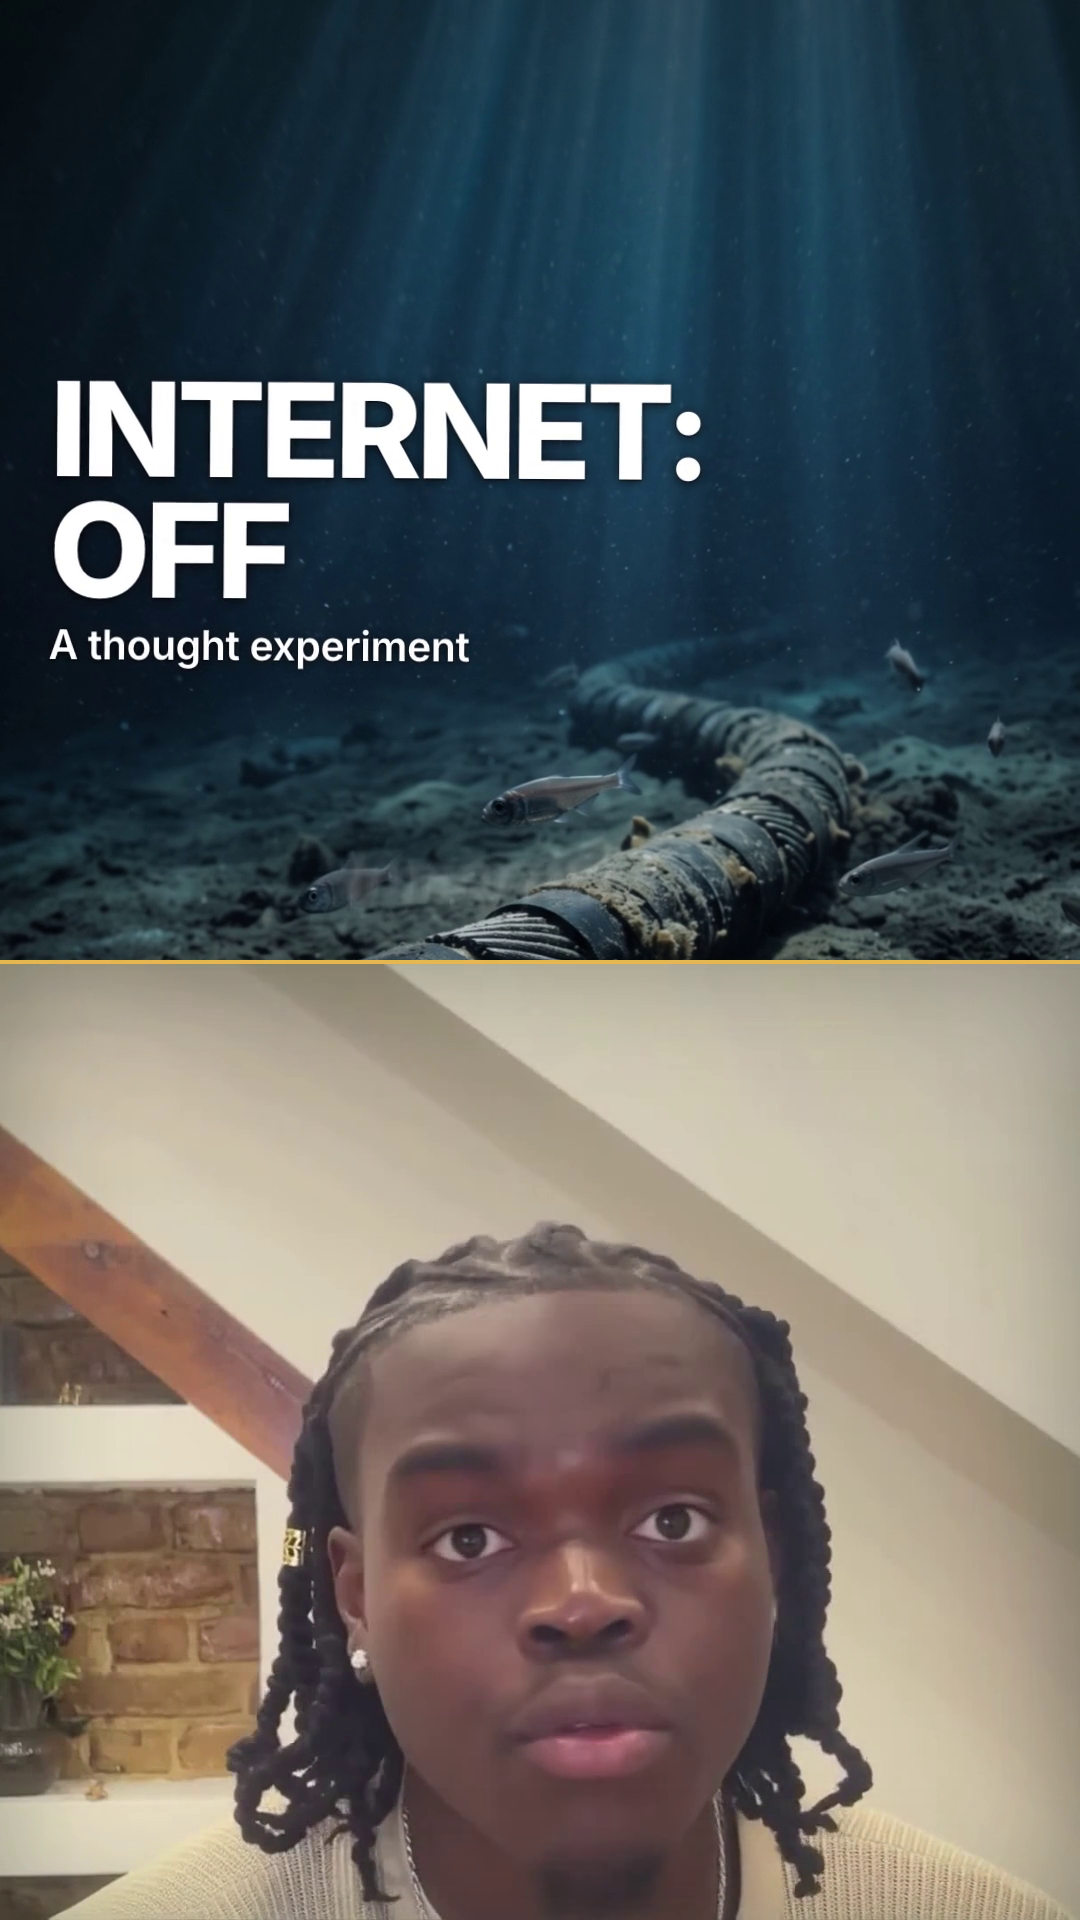
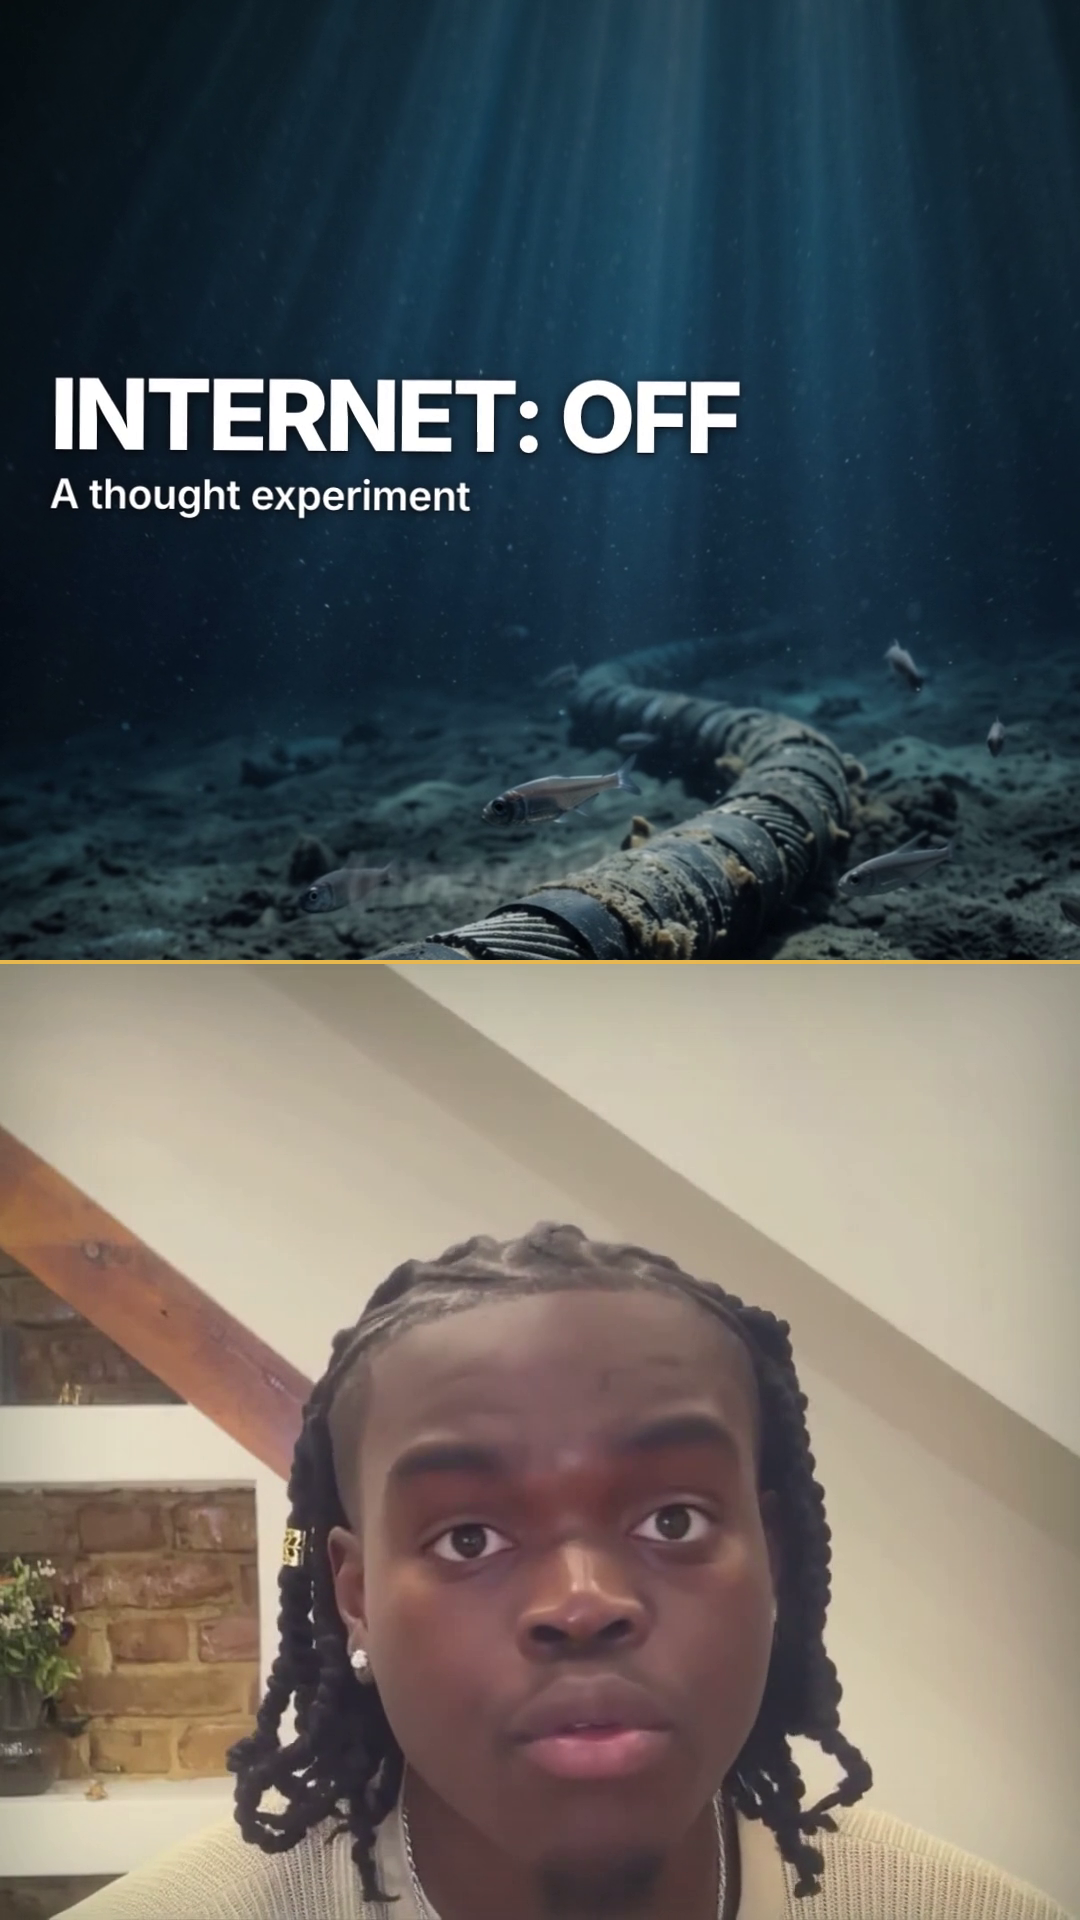
Rule: story-first what-if videos without Korede's face; hold for rework

Changed region(s): [[0.0306, 0.1875, 0.7028, 0.3438]]

diff --git a/content/POST-TODAY.md b/content/POST-TODAY.md
@@ -227,7 +227,7 @@ Our free calculator shows what it adds up to. It's in our bio.
 ```
 
 
-## 13. @koredekola gamified "What if AI took over tomorrow?" (Day 1 to Year 1)
+## 13. @koredekola gamified "What if AI took over tomorrow?" (Day 1 to Year 1) **HOLD: being reworked (no face, visual hook)**
 Folder: `content/2026-W46/ig-personal-mon-1230-what-if-ai-took-over` · media: video.mp4 · keyword: AI
 
 ```
@@ -242,7 +242,7 @@ AI won't take your job. The person who sets it up first will.
 #AI #AInews #futureofwork #ClaudeAI #tech
 ```
 
-## 14. @koredekola gamified "You wake up as CEO of Anthropic" ep 1 (comment A or B; count votes tomorrow for ep 2)
+## 14. @koredekola gamified "You wake up as CEO of Anthropic" ep 1 (comment A or B; count votes tomorrow for ep 2) **HOLD: being reworked (no face, visual hook)**
 Folder: `content/2026-W46/ig-personal-thu-1230-you-decide-anthropic-ceo-ep1` · media: video.mp4 · keyword: -
 
 ```
@@ -272,7 +272,7 @@ What's the first thing you'd do as a 10% Nigerian? Tell me below, and follow for
 #Nigeria #Naija #Afrobeats #Lagos #whatif
 ```
 
-## 16. @koredekola REALISTIC "Internet: off" (Hour 1 to Day 30, real sources; on-screen % fix re-rendering, ready ~18:35)
+## 16. @koredekola REALISTIC "Internet: off" (Hour 1 to Day 30, real sources; on-screen % fix re-rendering, ready ~18:35) **HOLD: being reworked (no face, visual hook)**
 Folder: `content/2026-W46/ig-personal-tue-1230-what-if-internet-down-30-days` · media: video.mp4 · keyword: -
 
 ```
@@ -285,7 +285,7 @@ Only 14% of US payments are still made in cash (Federal Reserve). More than 99% 
 #whatif #internet #tech #technology #AI
 ```
 
-## 17. @koredekola gamified "What if every government left tomorrow?"
+## 17. @koredekola gamified "What if every government left tomorrow?" **HOLD: being reworked (no face, visual hook)**
 Folder: `content/2026-W46/ig-personal-wed-1230-what-if-governments-left` · media: video.mp4 · keyword: AI
 
 ```
@@ -300,7 +300,7 @@ Systems beat titles. Every time.
 #AI #whatif #systems #futureofwork #tech
 ```
 
-## 18. @koredekola gamified "Every level of AI, where you get stuck"
+## 18. @koredekola gamified "Every level of AI, where you get stuck" **HOLD: being reworked (no face, visual hook)**
 Folder: `content/2026-W46/ig-personal-sun-1100-every-level-of-ai` · media: video.mp4 · keyword: AI
 
 ```
@@ -326,7 +326,7 @@ The shopper is changing. Who wins this, Walmart or Amazon?
 #AI #AIagents #ecommerce #Walmart #technews
 ```
 
-## 20. @koredekola REALISTIC video "What if everyone became 10% Nigerian?" (ready)
+## 20. @koredekola REALISTIC video "What if everyone became 10% Nigerian?" (ready) **HOLD: being reworked (no face, visual hook)**
 Folder: `content/2026-W46/ig-personal-sat-1500-what-if-10-nigerian-video` · media: video.mp4 · keyword: -
 
 ```

diff --git a/CLAUDE.md b/CLAUDE.md
@@ -69,6 +69,8 @@ Formats: `static`, `carousel`, `video`. Vary aspect ratios across the week (1:1,
 
 - **Carousel type (Korede, 2026-10-24)**: no Claude-style serif (no Instrument Serif or Playfair on carousels). Brand type: Space Grotesk headlines, Space Mono bold italic for accent words (Content Systems' mono), Inter body. Covers: title sits clearly above Korede's head (a slight hair overlap at most), never hidden behind it. Cutouts must be full-frame (the whole head, nothing cropped at the PNG edge): make them with scripts/cutout.py on the full photo, never crop the cutout file. Korede's photos are AI-upscaled and cleaned (assets/photos/korede/*.jpg, Recraft crisp upscale blended with the original for texture): never grainy.
 
+- **What-if / you-decide / gamified videos (Korede, 2026-10-24)**: these are about the story, not Korede. No face by default; at most a short clean real shot at the very start (the question) or the very end, never through the video, and never an AI lip-sync that degrades (mouth cut off, warping): if it lowers quality, leave it out. Don't open with identity lines ("I'm Nigerian"); if he introduces himself at all it's just "My name's Korede" (TTS: "Korayday"). The intro must not read as AI (no talking AI character up front): open on a strong visual hook like the references (3D/low-poly world, countdown, map, real-looking footage or stills, a big counter), then narration.
+
 ## Content rules
 - Topics: our business (logistics/3PL, e-commerce, AI systems) plus what's trending in AI right now. Each week starts with fresh research (`content/<week>/trends.md`, sources and dates cited, nothing older than 14 days) and the plan mixes trending stories into the pillars, always tied back to what it means for operators.
 - Pillars: `belief-shift` ("if you believe X, it's costing you Y"), `tools-vs-systems`, `calm-playbooks` (for overwhelmed founders), `operational-clarity`, `case-studies` (results from systems). Angle everything at logistics/3PL and e-commerce operators.
